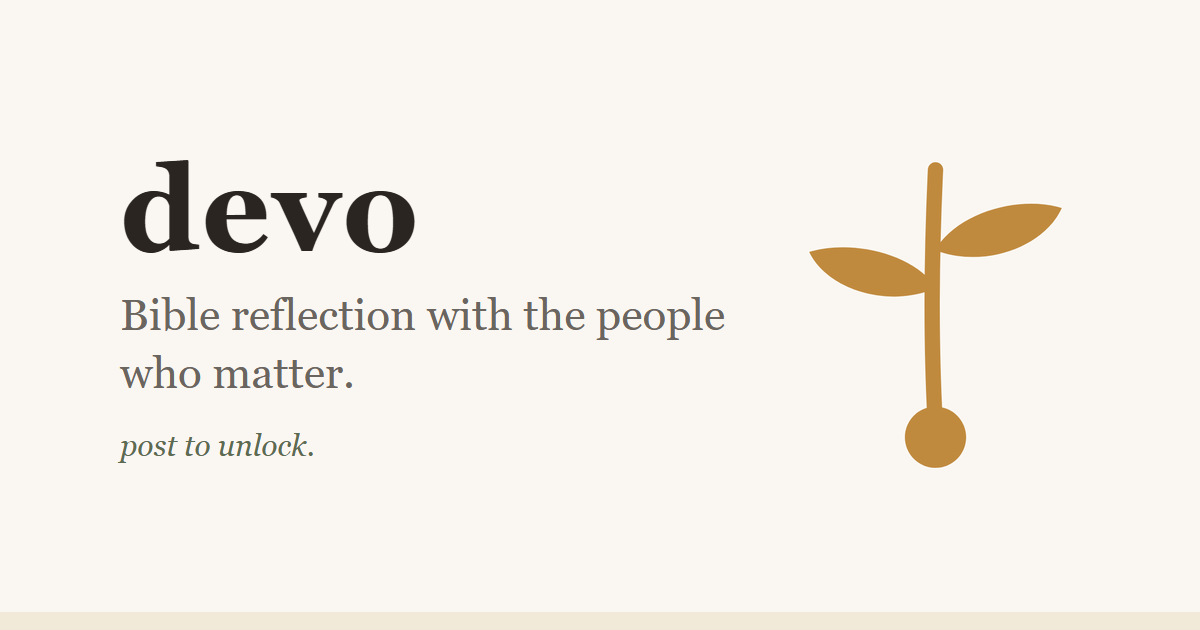
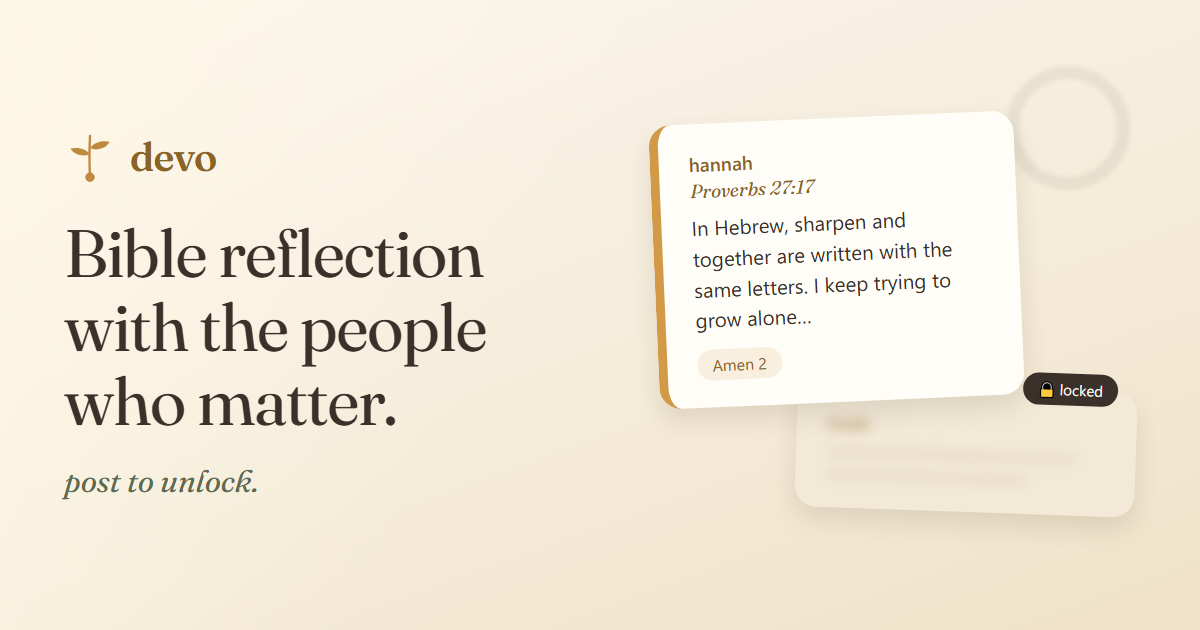
chore: og-image regenerated as morning-desk scene (+ capture harness)

diff --git a/assets/og-source.html b/assets/og-source.html
@@ -1,0 +1,104 @@
+<!DOCTYPE html>
+<!-- Regeneration harness for assets/og-image.png (the Open Graph preview).
+     Serve the REPO ROOT over http (python -m http.server 8123), open
+     http://localhost:8123/assets/og-source.html in Chrome, and capture at
+     exactly 1200x630, devicePixelRatio 1 (CDP: Emulation.setDeviceMetricsOverride
+     1200x630 dsf=1, then Page.captureScreenshot clip 0,0,1200,630 scale=1).
+     Never capture from file:// (zoom/dpr remembered per origin breaks the math).
+     All colors/fonts derive from ../tokens.css; scene language mirrors the
+     live homepage Morning Desk hero (style.css .dawn block). Copy is canon:
+     wordmark, h1, hook, and the hannah card from index.html, nothing else. -->
+<html lang="en">
+<head>
+<meta charset="UTF-8">
+<title>og-image source (1200x630)</title>
+<link rel="stylesheet" href="../tokens.css">
+<style>
+  * { box-sizing: border-box; margin: 0; padding: 0; }
+  html, body { width: 1200px; height: 630px; overflow: hidden;
+    -webkit-font-smoothing: antialiased; }
+
+  .canvas { position: relative; width: 1200px; height: 630px; overflow: hidden;
+    display: flex; align-items: center;
+    padding: 56px 64px;
+    background: linear-gradient(160deg, var(--cream) 0%, #F5ECDA 55%, #EFE2C8 100%); }
+  /* dawn light beam, same wash as the live hero (.dawn::before) */
+  .canvas::before { content: ''; position: absolute; inset: 0; pointer-events: none;
+    background: linear-gradient(118deg, rgba(255,248,230,.85) 0%, rgba(255,248,230,0) 45%); }
+
+  .left { position: relative; z-index: 1; width: 55%; padding-right: 24px; }
+  .right { position: relative; z-index: 1; width: 45%; }
+
+  .lockup { display: flex; align-items: center; gap: 14px; margin-bottom: 34px; }
+  .mark { width: 52px; height: 52px; }
+  .wordmark { font-family: 'Fraunces', Georgia, serif; font-weight: 600;
+    font-size: 40px; letter-spacing: -0.02em; color: var(--gold-text); }
+
+  h1 { font-family: 'Fraunces', Georgia, serif; font-weight: 400;
+    font-size: 67px; line-height: 1.1; letter-spacing: -0.02em;
+    color: var(--ink); text-wrap: balance; max-width: 11ch; }
+
+  .hook { font-family: 'Fraunces', Georgia, serif; font-style: italic;
+    font-size: 31px; color: var(--sage); margin-top: 24px; }
+
+  /* hero card pair, scaled up ~1.5x from the on-site .qt-card */
+  .qt-card { background: var(--paper); border-radius: 22px; box-shadow: var(--shadow-card);
+    padding: 27px 30px; }
+  .qt-card--unlocked { border-left: 9px solid var(--gold); width: 365px;
+    transform: rotate(-2.5deg); position: relative; z-index: 2; }
+  .qt-card--locked { background: #F2E9D7; width: 340px; margin: -16px 0 0 auto;
+    transform: rotate(2deg); position: relative; }
+  .qt-author { font-weight: 600; font-size: 19px; color: var(--gold-text);
+    font-family: -apple-system, "Segoe UI", Roboto, Helvetica, Arial, sans-serif; }
+  .verse-ref { font-family: 'Fraunces', Georgia, serif; font-style: italic;
+    font-size: 19px; color: var(--gold-text); margin-top: 2px; }
+  .qt-body { font-size: 20.5px; line-height: 1.5; color: var(--ink); margin-top: 10px;
+    font-family: -apple-system, "Segoe UI", Roboto, Helvetica, Arial, sans-serif; }
+  .qt-react { display: inline-block; margin-top: 14px; font-size: 16px;
+    color: var(--gold-text); background: rgba(210,154,71,.14); border-radius: 999px;
+    padding: 5px 15px;
+    font-family: -apple-system, "Segoe UI", Roboto, Helvetica, Arial, sans-serif; }
+  .lock-chip { position: absolute; top: -16px; right: 20px; background: var(--ink);
+    color: var(--cream); border-radius: 999px; padding: 6px 15px; font-size: 15px;
+    font-family: -apple-system, "Segoe UI", Roboto, Helvetica, Arial, sans-serif; }
+  .qt-blur { filter: blur(6px); opacity: .6; }
+  .blur-line { height: 12px; background: #E5D9C4; border-radius: 6px; margin-top: 11px; }
+  .coffee-ring { position: absolute; top: -52px; right: 6px; width: 124px; height: 124px;
+    border-radius: 50%; border: 13px solid rgba(122,110,96,.10); filter: blur(2px); }
+</style>
+</head>
+<body>
+  <div class="canvas">
+    <div class="left">
+      <div class="lockup">
+        <svg class="mark" viewBox="160 160 704 704" aria-hidden="true">
+          <path d="M 512 780 Q 498 540, 512 240" stroke="#C08A3E" stroke-width="32" stroke-linecap="round" fill="none"/>
+          <path d="M 522 392 C 580 320, 700 296, 776 320 C 740 400, 620 444, 522 412 Z" fill="#C08A3E"/>
+          <path d="M 502 472 C 444 408, 324 388, 248 412 C 284 488, 404 528, 502 492 Z" fill="#C08A3E"/>
+          <circle cx="512" cy="800" r="64" fill="#C08A3E"/>
+        </svg>
+        <span class="wordmark">devo</span>
+      </div>
+      <h1>Bible reflection with the people who matter.</h1>
+      <p class="hook">post to unlock.</p>
+    </div>
+    <div class="right">
+      <div class="coffee-ring"></div>
+      <article class="qt-card qt-card--unlocked">
+        <p class="qt-author">hannah</p>
+        <p class="verse-ref">Proverbs 27:17</p>
+        <p class="qt-body">In Hebrew, sharpen and together are written with the same letters. I keep trying to grow alone&hellip;</p>
+        <span class="qt-react">Amen 2</span>
+      </article>
+      <article class="qt-card qt-card--locked">
+        <span class="lock-chip"><span aria-hidden="true">&#128274;</span> locked</span>
+        <div class="qt-blur" aria-hidden="true">
+          <p class="qt-author">noah</p>
+          <div class="blur-line" style="width:90%"></div>
+          <div class="blur-line" style="width:72%"></div>
+        </div>
+      </article>
+    </div>
+  </div>
+</body>
+</html>
